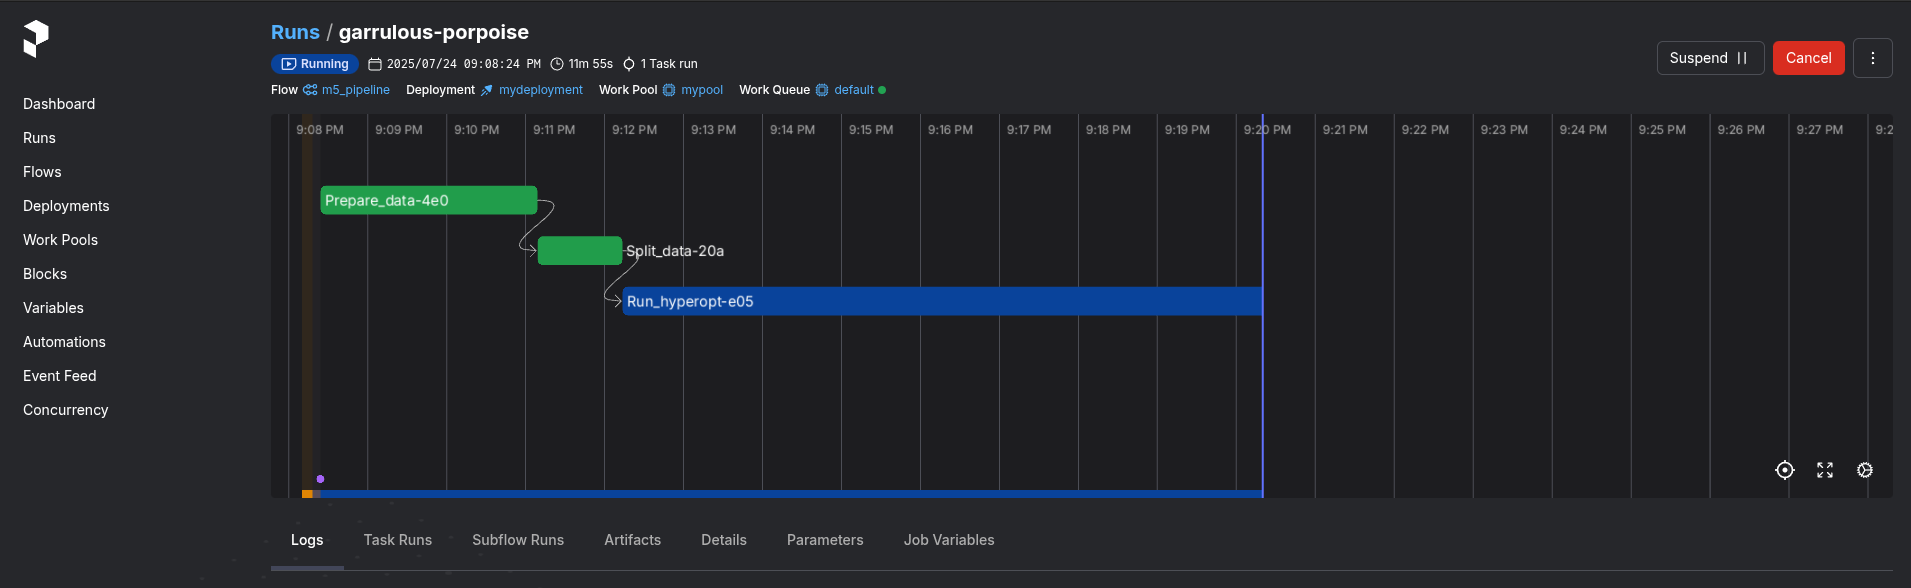
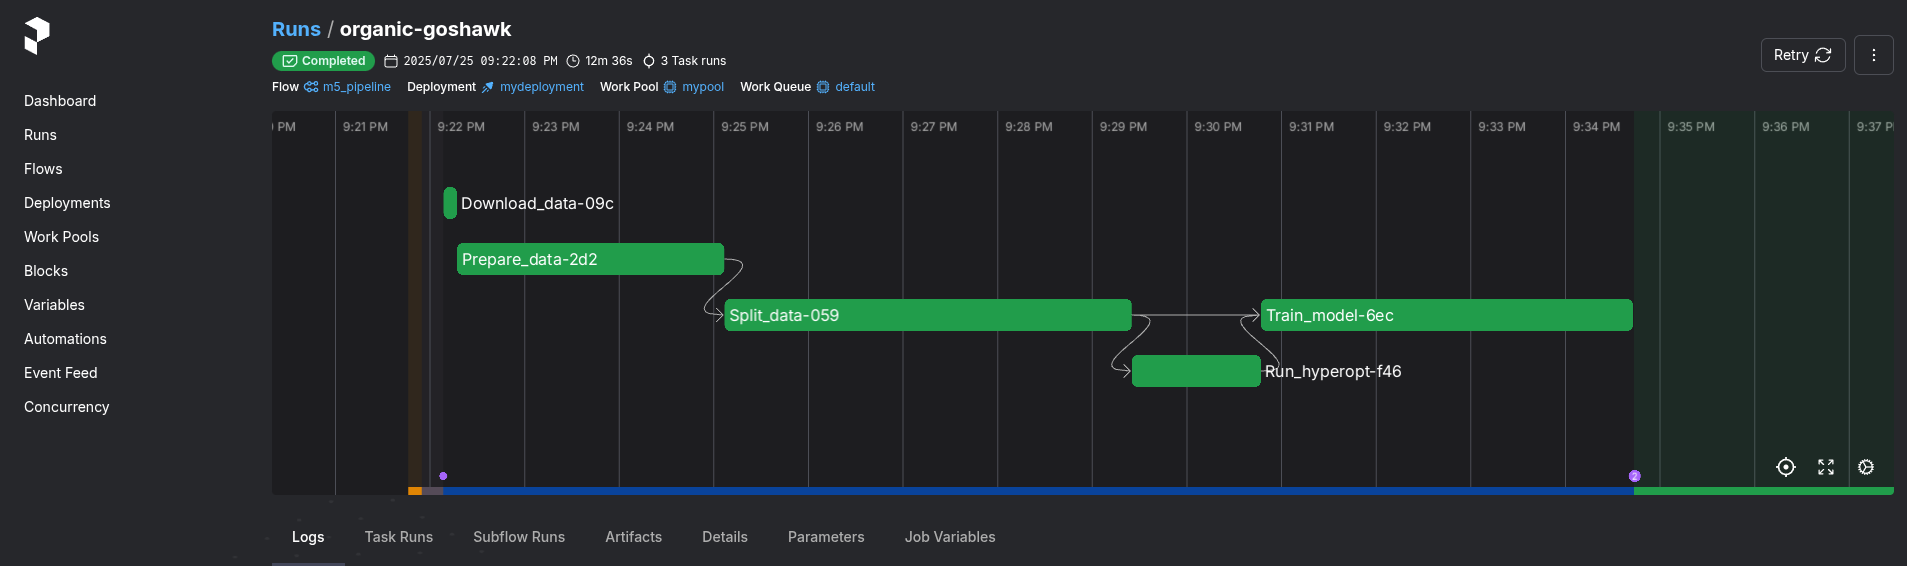
now docker can be used to run the code

diff --git a/Development/pipeline_training.py b/Development/pipeline_training.py
@@ -4,7 +4,9 @@ from typing import Tuple
 import pandas as pd
 import logging
 
-from codes.data_loader import (
+from codes.data_handling.data_downloader import download_m5_data
+from codes.data_handling.data_uploader import save_and_upload_to_s3
+from codes.data_handling.data_loader import (
     load_sales_data,
     load_calendar_data,
     load_sell_prices
@@ -18,6 +20,7 @@ from codes.feature_engineering import (
 from codes.best_model import train_model
 from codes.tuning.param_tunning import run_hyperopt
 from codes.config import (
+    RAW_DATA_DIR,
     PROCESSED_DATA_DIR,
     START_DATE_TRAIN,
     END_DATE_TRAIN,
@@ -29,6 +32,13 @@ from codes.config import (
 # Configure logging
 logging.basicConfig(level=logging.INFO)
 logger = logging.getLogger(__name__)
+
+
+@task(name="Download_data", log_prints=True)
+def downloading_data() -> None:
+    """Download M5 data set from the Kaggle"""
+    logger.info("Downloading M5 data")
+    download_m5_data(RAW_DATA_DIR)
 
 
 @task(name="Prepare_data", log_prints=True)
@@ -78,11 +88,9 @@ def split_data(df: pd.DataFrame) -> Tuple[pd.DataFrame, pd.Series, pd.DataFrame,
     X_valid = df[valid_mask][features]
     y_valid = df[valid_mask][target]
 
-    df_reference = df[valid_mask][features + ['d', target]]
-    df_test = df[test_mask][features + ['d', target]]
-    df_reference.to_csv(PROCESSED_DATA_DIR / 'reference_data.csv', index=False)
-    df_test.to_csv(PROCESSED_DATA_DIR / 'test_data.csv', index=False)
-
+    save_and_upload_to_s3(df_reference=df[valid_mask][features + ['d', target]], 
+                          df_test=df[test_mask][features + ['d', target]])
+    
     logger.info(f"Train/Validation/Test splits created with shapes: "
                 f"{X_train.shape}, {X_valid.shape}")
 
@@ -100,7 +108,10 @@ def m5_pipeline():
     """
     logger.info("Starting M5 Forecasting Pipeline")
 
+    downloading_data()
+
     df = prepare_data()
+
     X_train, y_train, X_valid, y_valid = split_data(df)
 
     logger.info("Running Hyperparameter Search")

diff --git a/Development/codes/data_handling/data_uploader.py b/Development/codes/data_handling/data_uploader.py
@@ -1,0 +1,38 @@
+import pandas as pd
+import logging
+from pathlib import Path
+from codes.config import PROCESSED_DATA_DIR, PROCESSED_DATA_BUCKET
+import boto3
+
+
+logger = logging.getLogger(__name__)
+
+
+def save_and_upload_to_s3(df_reference: pd.DataFrame, df_test: pd.DataFrame, 
+                          local_dir: Path = PROCESSED_DATA_DIR,
+                          s3_bucket: str = PROCESSED_DATA_BUCKET):
+    """
+    Save two DataFrames to CSV and upload them to an S3 bucket.
+
+    Args:
+        df_reference (pd.DataFrame): First DataFrame.
+        df_test (pd.DataFrame): Second DataFrame.
+        local_dir (Path): Directory to save the local CSV files.
+        filenames (tuple): Filenames to save locally (e.g., ("data1.csv", "data2.csv")).
+        s3_bucket (str): Name of the S3 bucket.
+        s3_keys (tuple): S3 object keys for the files (e.g., ("folder/data1.csv", "folder/data2.csv")).
+        aws_region (str): AWS region (default: "us-east-1").
+    """
+
+    reference_path = local_dir / 'reference_data.csv'
+    test_path = local_dir / 'test_data.csv'
+
+    df_reference.to_csv(reference_path, index=False)
+    df_test.to_csv(test_path, index=False)
+
+    # Upload to S3
+    s3 = boto3.client("s3")
+    s3.upload_file(str(reference_path), s3_bucket, "/".join(str(reference_path).split("/")[-3:]))
+    s3.upload_file(str(test_path), s3_bucket, "/".join(str(test_path).split("/")[-3:]))
+
+    print(f"Uploaded {local_dir} to s3://{s3_bucket} bucket.")

diff --git a/Development/codes/data_handling/data_downloader.py b/Development/codes/data_handling/data_downloader.py
@@ -1,0 +1,30 @@
+import os
+from kaggle.api.kaggle_api_extended import KaggleApi
+import logging
+import zipfile
+
+from codes.config import RAW_DATA_DIR
+
+logger = logging.getLogger(__name__)
+
+def download_m5_data(destination_dir: str = RAW_DATA_DIR):
+    os.makedirs(destination_dir, exist_ok=True)
+
+    api = KaggleApi()
+    api.authenticate()
+
+    logger.info("Downloading M5 Forecasting dataset...")
+    api.competition_download_files(
+        competition="m5-forecasting-accuracy",
+        path=destination_dir
+    )
+
+    logger.info("Unzipping files...")
+    
+    zip_path = os.path.join(destination_dir, "m5-forecasting-accuracy.zip")
+    with zipfile.ZipFile(zip_path, 'r') as zip_ref:
+        zip_ref.extractall(destination_dir)
+
+    os.remove(zip_path)
+    logger.info("Downloading is done.")
+

diff --git a/Development/codes/config.py b/Development/codes/config.py
@@ -20,6 +20,7 @@ DEV_DIR = Path(__file__).resolve().parent
 DATA_DIR = BASE_DIR / "data"
 RAW_DATA_DIR = DATA_DIR / "raw"
 PROCESSED_DATA_DIR = DATA_DIR / "processed"
+PROCESSED_DATA_BUCKET = config['output_data']['s3_bucket']
 
 # Time splits
 START_DATE_TRAIN = config["split"]["starting_date_idx_training"]

diff --git a/Development/README.md b/Development/README.md
@@ -156,3 +156,19 @@ and click on `Runs` tab.
   Removes Python bytecode files (`__pycache__`, `.pyc`, `.pyo`) to keep the repo clean.
 
 
+## Running By Docker
+
+```bash
+# Build the Docker image
+docker build -t m5-pipeline-dev .
+
+# Run an interactive container
+docker run -it \
+  -e AWS_ACCESS_KEY_ID=your_access_key \
+  -e AWS_SECRET_ACCESS_KEY=your_secret_key \
+  -v $(pwd):/app \
+  -v $HOME/.kaggle:/root/.kaggle \
+  -p 5000:5000 -p 4200:4200 \
+  --name m5-dev \
+  m5-pipeline-dev
+```
